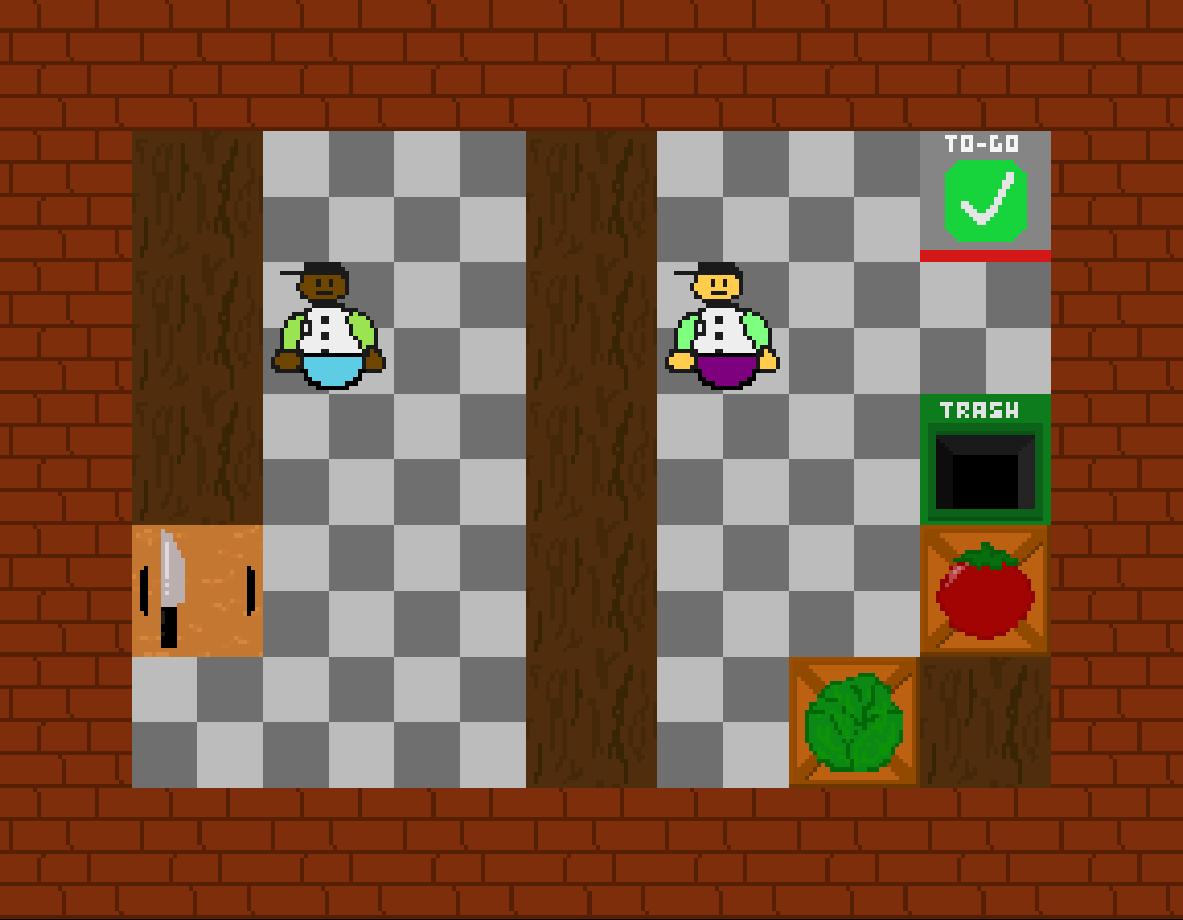
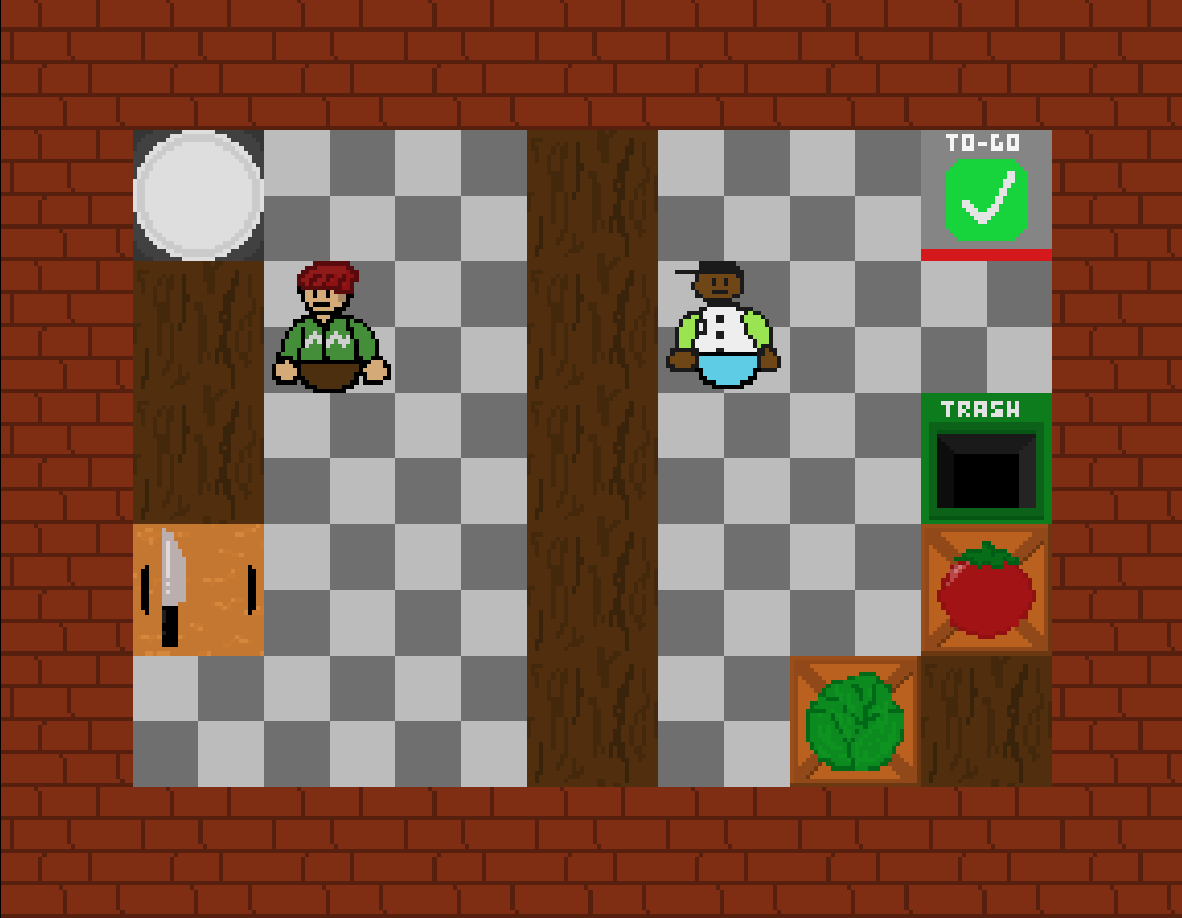
Make cutting food take time, add progress bar for cutting progress, require plate to submit order, add plates to all levels

diff --git a/public/engine/tiles/cutting-board.js b/public/engine/tiles/cutting-board.js
@@ -6,6 +6,7 @@ export const CuttingBoard = {
     sourceImage: "cuttingboard.png",
     solid: true,
     init: (self, data) => {
+        self.active = false;
         if (data) {
             self.data = data;
         }
@@ -20,21 +21,53 @@ export const CuttingBoard = {
      */
     onInteract: (self, player, _key) => {
         if (player.item === null) {
-            /** @type { Item } */
-            const item = self.data.item;
-            if (item === null) return;
-            if (!item.attr("cutted")) {
-                item.setAttr("cutted", true);
+            if (!self.data.item) return;
+            if (self.data.item.attr("cutted")) {
+                player.giveItem(self.data.item);
+                self.data.item = null;
+            }
+            // this runs if not cut
+            // SHOULD RESET IT ITEM IS PICKED UP
+            self.active = !self.active;
+            if (self.active) {
+                player.addSubscriber(self);
+                self.lastTick = Date.now();
+                self.proto.startCutting(self, player);
             }
             else {
-                player.giveItem(item);
-                self.data.item = null;
+                player.removeSubscriber(self);
             }
         }
         else {
             if (self.data.item !== null) return;
             if (!player.item.proto.cuttable) return;
             self.data.item = player.releaseItem();
+            // time needed to cut
+            self.timeNeededMs = 1400;
+            self.timeLeft = self.timeNeededMs;
         }
+    },
+    startCutting(self, player) {
+        let activeInterval = setInterval(() => {
+            if (!self.active) clearInterval(activeInterval);
+            let delta = Date.now() - self.lastTick;
+            self.lastTick = Date.now();
+            self.timeLeft -= delta;
+            // intensive resource usage
+            window.game.notifyRedraw();
+
+            if (self.timeLeft <= 0) {
+                self.active = false;
+                self.proto.finishCutting(self);
+                player.removeSubscriber(self);
+            }
+        }, 50);
+    },
+    finishCutting(self) {
+        self.data.item.setAttr("cutted", true);
+        window.game.notifyRedraw();
+    },
+    disconnect(self) {
+        self.active = false;
     }
 };

diff --git a/public/engine/game.js b/public/engine/game.js
@@ -164,14 +164,23 @@ export const Game = {
         G.clear("#000");
         for (const cell of this.grid.cells) {
             G.drawImage(ImageCache.getTile(cell.proto.sourceImage), cell.x * csize, cell.y * csize);
-            if (cell.data && cell.data.item) {
-                if (cell.data.item.attr("hasPlate")) {
-                    G.drawImage(ImageCache.getPlate(), cell.x * csize, cell.y * csize);
+            if (cell.data) {
+                if (cell.data.item) {
+                    if (cell.data.item.attr("hasPlate")) {
+                        G.drawImage(ImageCache.getPlate(), cell.x * csize, cell.y * csize);
+                    }
+                    G.drawImage(ImageCache.getItem(cell.data.item.src()), cell.x * csize, cell.y * csize);
+
+                    if (cell.active) {
+                        let total = cell.timeNeededMs;
+                        let part = cell.timeLeft;
+                        G.drawProgressBar(part, total, cell.x * csize, cell.y * csize);
+                    }
                 }
-                G.drawImage(ImageCache.getItem(cell.data.item.src()), cell.x * csize, cell.y * csize);
-            }
-            if (cell.data && cell.data.items) {
-                G.drawImage(ImageCache.getSmall(cell.data.items[0]), cell.x * csize, cell.y * csize);
+
+                if (cell.data.items) {
+                    G.drawImage(ImageCache.getSmall(cell.data.items[0]), cell.x * csize, cell.y * csize);
+                }
             }
         }
         for (const player of this.players) {

diff --git a/public/engine/grid.js b/public/engine/grid.js
@@ -111,15 +111,13 @@ export class RemoteGrid extends Grid {
         return {
             // tile data
             id: cell.id,
-            x: cell.x, // may not need to send
-            y: cell.y, // may not need to send
             data: cell.data || "no data",
         }
     }
     importData(cells) {
         for (let i = 0; i < (this.width * this.height); i++) {
-            const x = i % this.width; // so maybe don't send them?
-            const y = Math.floor(i / this.width); // so maybe don't send them?
+            const x = i % this.width;
+            const y = Math.floor(i / this.width);
             const cell = cells[i];
             this.cells[i].create(cell.id, { x, y }, this.importCell(cell));
         }
@@ -151,12 +149,7 @@ export class RemoteGrid extends Grid {
         window.game.notifyRedraw();
         return;
     }
-    // async updateRemoteGridData() {
-    //     window.socket.emit("setGridData", {
-    //         roomid: window.roomid,
-    //         grid: this.exportData()
-    //     });
-    // }
+
     async updateRemoteCell(tile) {
         window.socket.emit("setCellData", {
             roomid: window.roomid,

diff --git a/public/engine/player.js b/public/engine/player.js
@@ -93,7 +93,8 @@ export class Player {
             // should alert all subscribed tiles about disconnect
             this.subscribers.forEach((subscriber) => {
                 // can be paused as well, but through interaction
-                subscriber.interface.disconnect();
+                subscriber.proto.disconnect(subscriber);
+                this.removeSubscriber(subscriber);
             });
 
             // multiplayer sync
@@ -105,9 +106,15 @@ export class Player {
                 });
             }
         }
-        else {
-            console.log("can't move player")
-        }
+    }
+
+    addSubscriber(tile) {
+        if (!this.subscribers.includes(tile))
+            this.subscribers.push(tile);
+    }
+    removeSubscriber(tile) {
+        let index = this.subscribers.indexOf(tile);
+        if (index != -1) this.subscribers.splice(index, 1);
     }
 
     updateRemote() {

diff --git a/public/engine/graphics.js b/public/engine/graphics.js
@@ -66,6 +66,22 @@ export function drawMirroredImage(image, x, y) {
     ctx.setTransform(1, 0, 0, 1, 0, 0);
 }
 
+export function drawProgressBar(remaining, total, x, y) {
+    let progress = total - remaining;
+    let progressPercent = progress / total;
+    let progressBarProgress = progressPercent * 28; // width of progress bar
+
+    const [dx, dy] = lastModifier();
+    x = Math.round(x + canvas.width / 2) + dx;
+    y = Math.round((y + 32) + canvas.height / 2) + dy - 4;
+    let oldColor = ctx.fillStyle;
+    ctx.fillStyle = "#999";
+    ctx.fillRect(x + 2, y, 28, 4);
+    ctx.fillStyle = "#00ff26";
+    ctx.fillRect(x + 2, y, progressBarProgress, 4);
+    ctx.fillStyle = oldColor;
+}
+
 export function drawText(text, x, y) {
     const [dx, dy] = lastModifier();
     ctx.font = "10px Pixelify Sans, sans-serif";

diff --git a/public/engine/orderHandler.js b/public/engine/orderHandler.js
@@ -37,9 +37,7 @@ export class OrderHandler {
     }
 
     submitOrder(player) {
-        if (player.item === null) {
-            return;
-        }
+        if (player.item === null || !player.item.attr("hasPlate")) return;
         if (this.mealOptions.includes(player.item.name())) {
             let order = this.orders.find(o => o.name == player.item.name());
             if (order) {

diff --git a/.to-do.md b/.to-do.md
@@ -1,14 +1,12 @@
 *Features (GAME)*
-- * take time to cut food (to also use later for cooking food)
-- conveyor belt
-- visually show gamepad controls
+- * conveyor belt
 - * let players choose sprites (w/ interact button or left/right)
 - * remove players from pre-game screen
 - level designer (exports level file)
 - interact w/ controller to start game
 - add nickname labels over players
-- add plateplaces on all levels
-- require plates for submission
+- visually show gamepad controls
+- allow multiple people cutting item to go faster
 
 *Features (MULTIPLAYER)*
 - use nicknames for players names in multiplayer
@@ -18,6 +16,7 @@
 **Still Needs Syncing**
 - points
 - orders (should be completly on server)
+- status of item being cut
 
 *Issues*
 - local pages won't load with trailing /
@@ -25,3 +24,7 @@
 - (multiplayer) players not removed from room on page reloaded/dulpicated
 
 *Changelog*
+- take time to cut food
+- progress bar for food cutting progress
+- add plateplaces to all levels (and update screenshots)
+- require plate for submission
